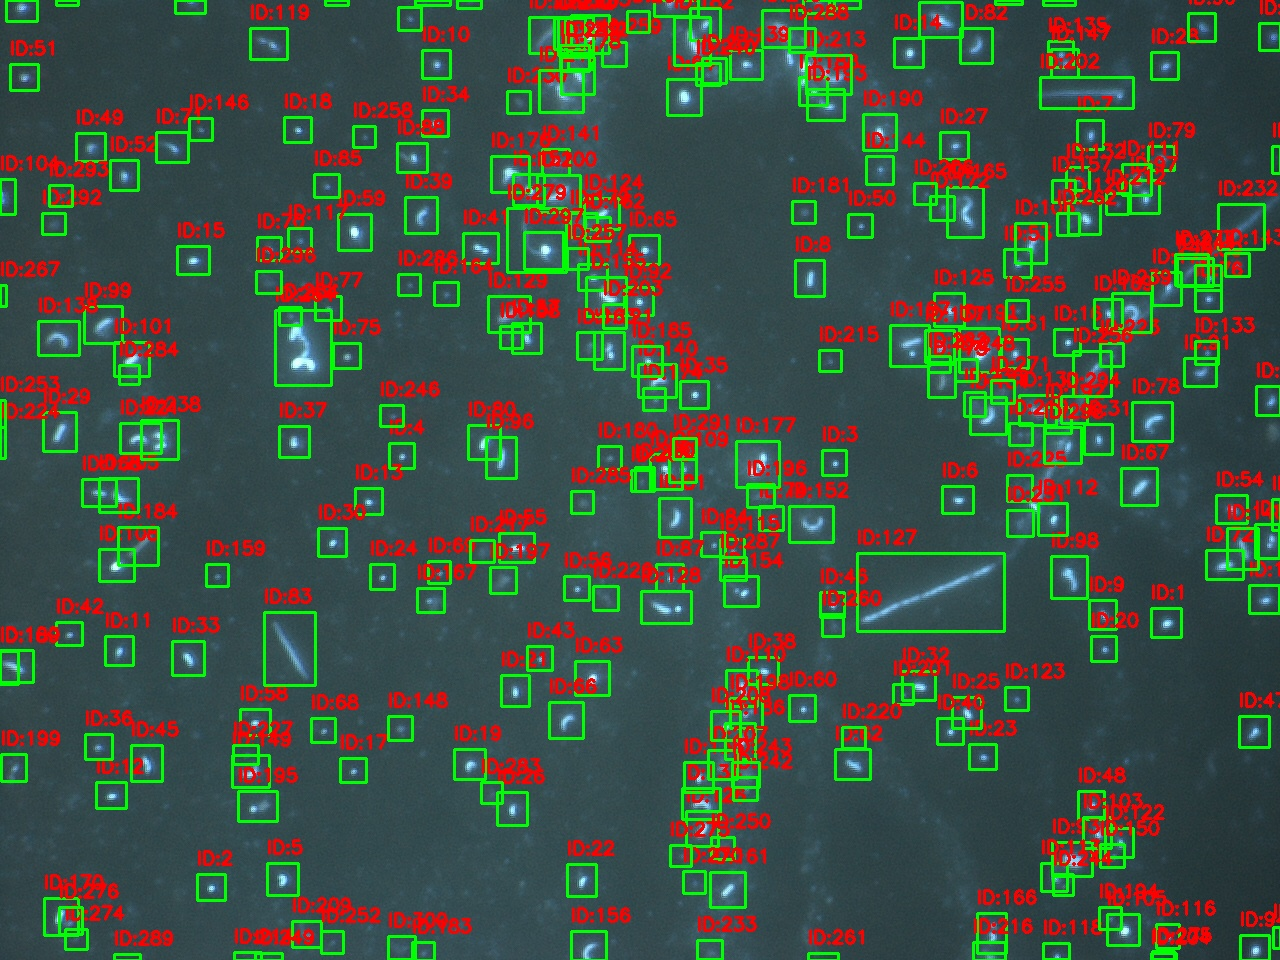
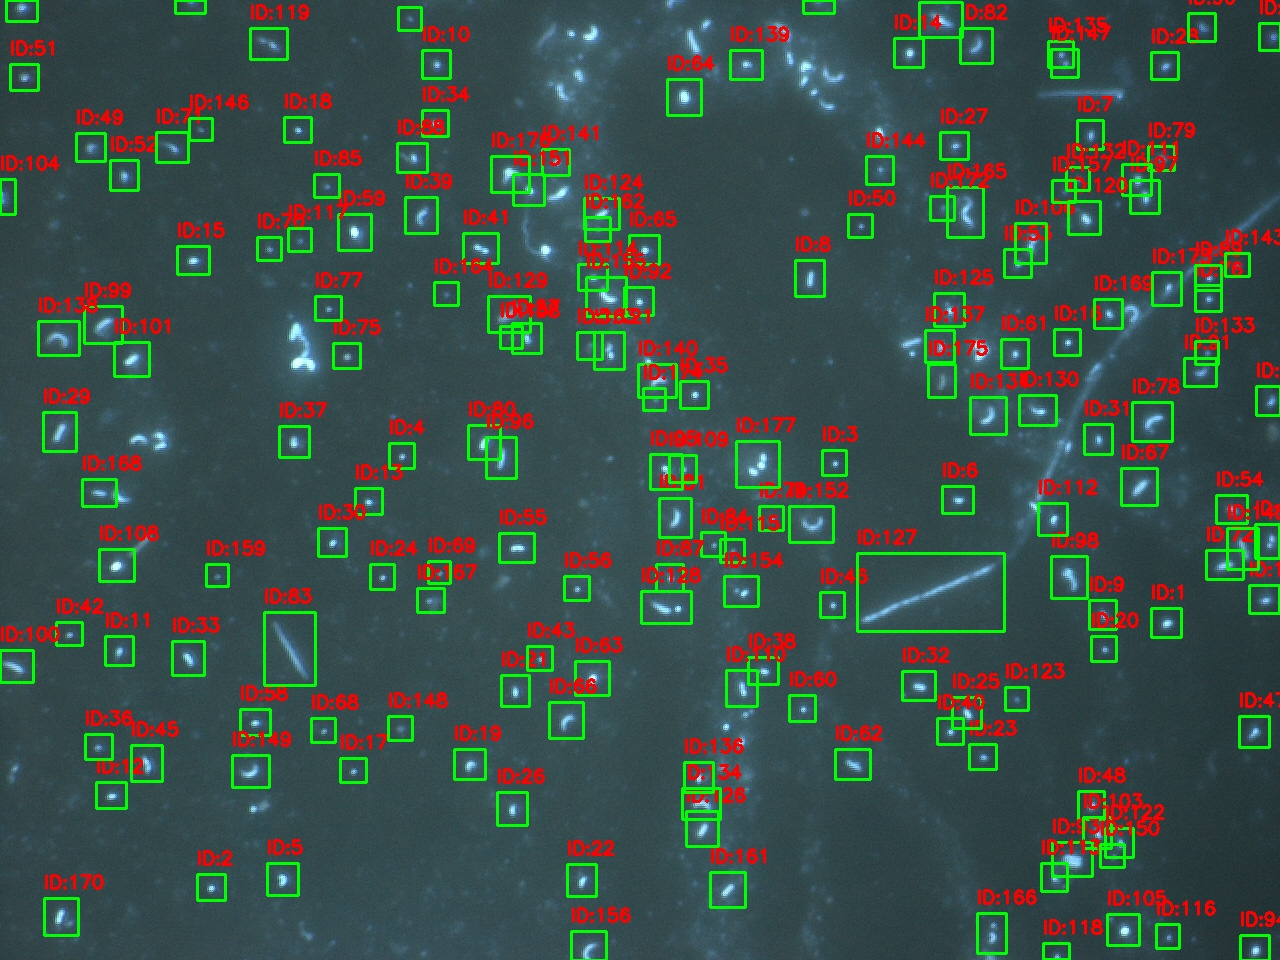
Display shannon index

diff --git a/ui/baicteria_ui.py b/ui/baicteria_ui.py
@@ -178,18 +178,22 @@ class AnalyseOneImageUI(QWidget):
         
 
         treshold = None
+        individual_tresh = True
         if self.manual_thresh_checkbox.checkState() == Qt.Checked:
             treshold = self.thresh_slider.value()
+            individual_tresh = False
             print(f"common_tresh: {self.thresh_slider.value()}")
         if optional_tresh != None:
             treshold = optional_tresh
+            individual_tresh = False
         
-        self.report_df = model_operations.get_results_df(self.image_path,self.results,common_tresh=treshold)
+        self.report_df = model_operations.get_results_df(self.image_path,self.results,common_tresh=treshold,individual_tresh=individual_tresh)
 
-        specified_types_count_predicted,df = model_operations.full_analyse(self.report_df,proube_volume_ml=6,is_pred=True)
+        specified_types_count_predicted,df,shannon_index = model_operations.full_analyse(self.report_df,proube_volume_ml=6,is_pred=True)
 
         self.report_results = specified_types_count_predicted[["bacteria_type", "count"]].to_string(index=False)
-        self.report_results_label.setText(f"Report results:\n{self.report_results}")
+        self.report_results_groups = df.to_string(index=False)
+        self.report_results_label.setText(f"Report results:\n{self.report_results}\nShannon index: {shannon_index}")
 
     def save_csv_report(self):
         if not self.report_df:
@@ -208,7 +212,7 @@ class AnalyseOneImageUI(QWidget):
         all_types = set()
         for i in range(1, 255):
             self.report_df = model_operations.get_results_df(self.image_path, self.results, common_tresh=i)
-            specified_types_count_predicted, df = model_operations.full_analyse(
+            specified_types_count_predicted, df,shannon_index = model_operations.full_analyse(
                 self.report_df, proube_volume_ml=6, is_pred=True
             )
             all_types.update(specified_types_count_predicted["bacteria_type"].tolist())

diff --git a/models/model_operations.py b/models/model_operations.py
@@ -427,7 +427,7 @@ def analyze_bacterium_from_image(original_image_path, scale_factor_mm_per_pixel,
         
     return results
 
-def get_results_df(full_image_path,results,common_tresh=None):
+def get_results_df(full_image_path,results,common_tresh=None,individual_tresh=False):
     image = cv2.imread(full_image_path)
 
     results_list = []
@@ -459,8 +459,8 @@ def get_results_df(full_image_path,results,common_tresh=None):
                 'pole_obrazu_mm2': []
             }
 
-
-    common_tresh,commmon_mask,overlay = get_tresh_mask_for_img(full_image_path,fixed=common_tresh)
+    if not individual_tresh:
+        common_tresh,commmon_mask,overlay = get_tresh_mask_for_img(full_image_path,fixed=common_tresh)
 
     # Ensure results[0] contains bounding boxes in format [x1, y1, x2, y2]
     for i, box in enumerate(results[0]):
@@ -621,4 +621,4 @@ def full_analyse(df,proube_volume_ml=6,is_pred = False):
     shannon_index = np.sum(result_bio_stats['bio_diversity'])*-1
     print(f"Shannon index: {shannon_index}")
 
-    return specified_types_count_predicted,df
+    return specified_types_count_predicted,df,shannon_index
